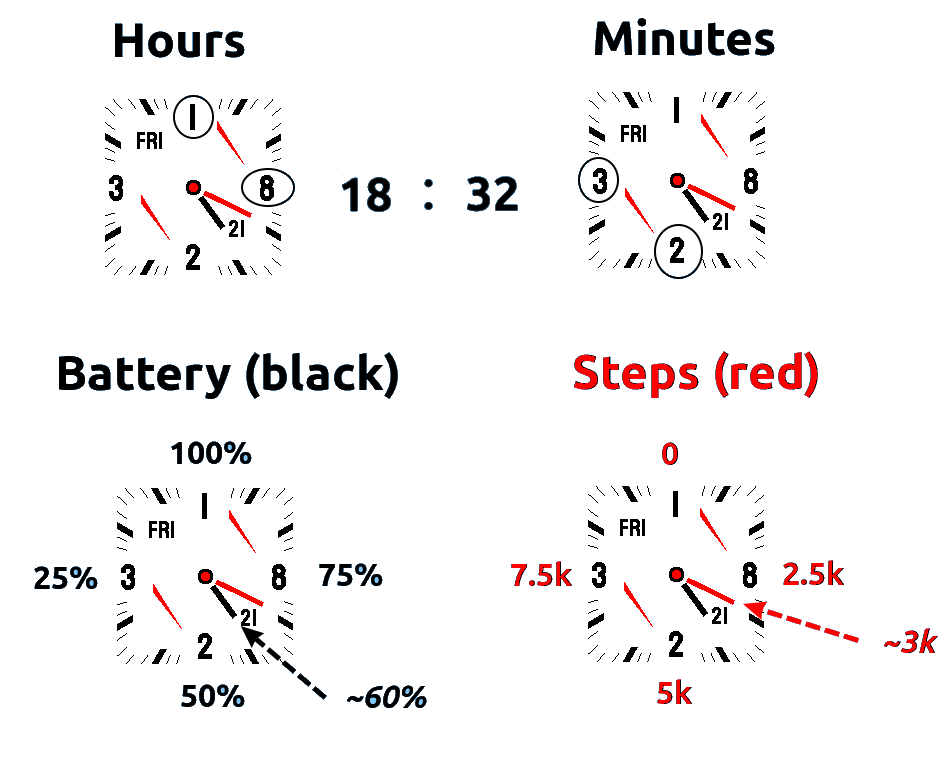
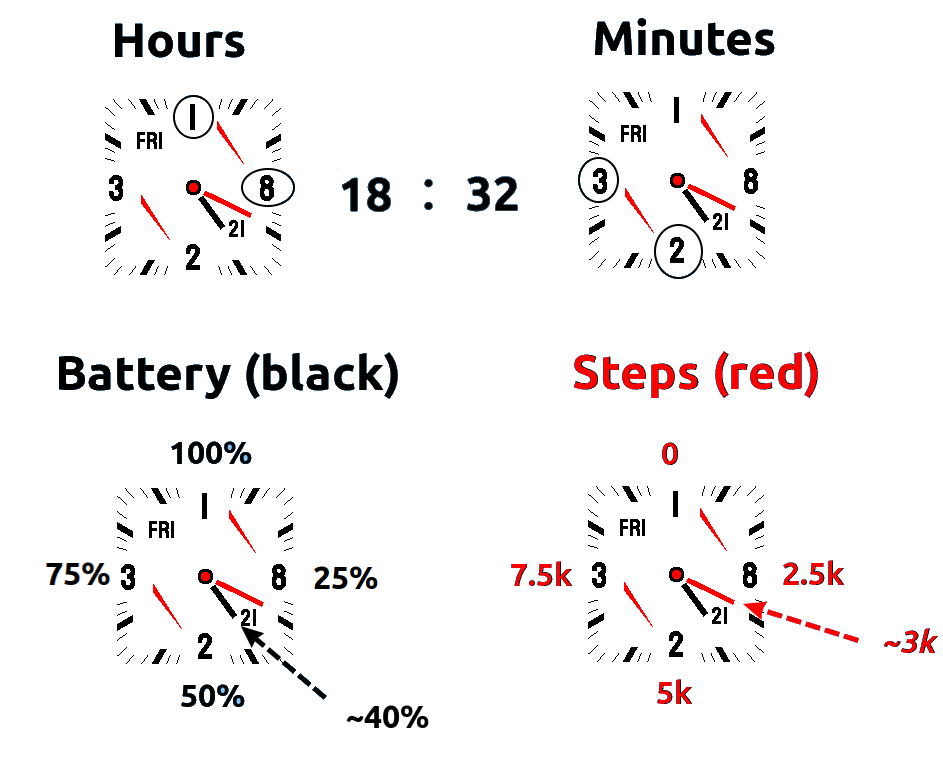
More intuitive bat level

Changed region(s): [[0.369, 0.8776, 0.4613, 0.9684], [0.0308, 0.7263, 0.123, 0.7868], [0.3383, 0.7263, 0.3998, 0.7868]]

diff --git a/apps/notanalog/notanalog.app.js b/apps/notanalog/notanalog.app.js
@@ -82,7 +82,7 @@ function drawHands() {
     var drawStepsHand = g.drawRotRect.bind(g,5,12,R-24);
 
     // Draw hands
-    var bat = 100 - E.getBattery();
+    var bat = E.getBattery();
     var maxBat = 100;
     g.setColor(g.theme.fg);
     drawBatteryHand(parseInt(bat*360/maxBat));

diff --git a/apps/notanalog/README.md b/apps/notanalog/README.md
@@ -9,7 +9,7 @@ It looks like an analog clock, but its not! It shows the time digital - check th
 
 ## Help
 The red hand shows the number of steps (0 = 0°, 2.5k = 90°, 5k = 180°, ...) and the
-black one the battery level (100% = 0°, 75% = 90°, 50% = 180°, ...) as also shown
+black one the battery level (100% = 0°, 75% = 270°, 50% = 180°, ...) as also shown
 in the following image:
 
 ![](overview.png)
